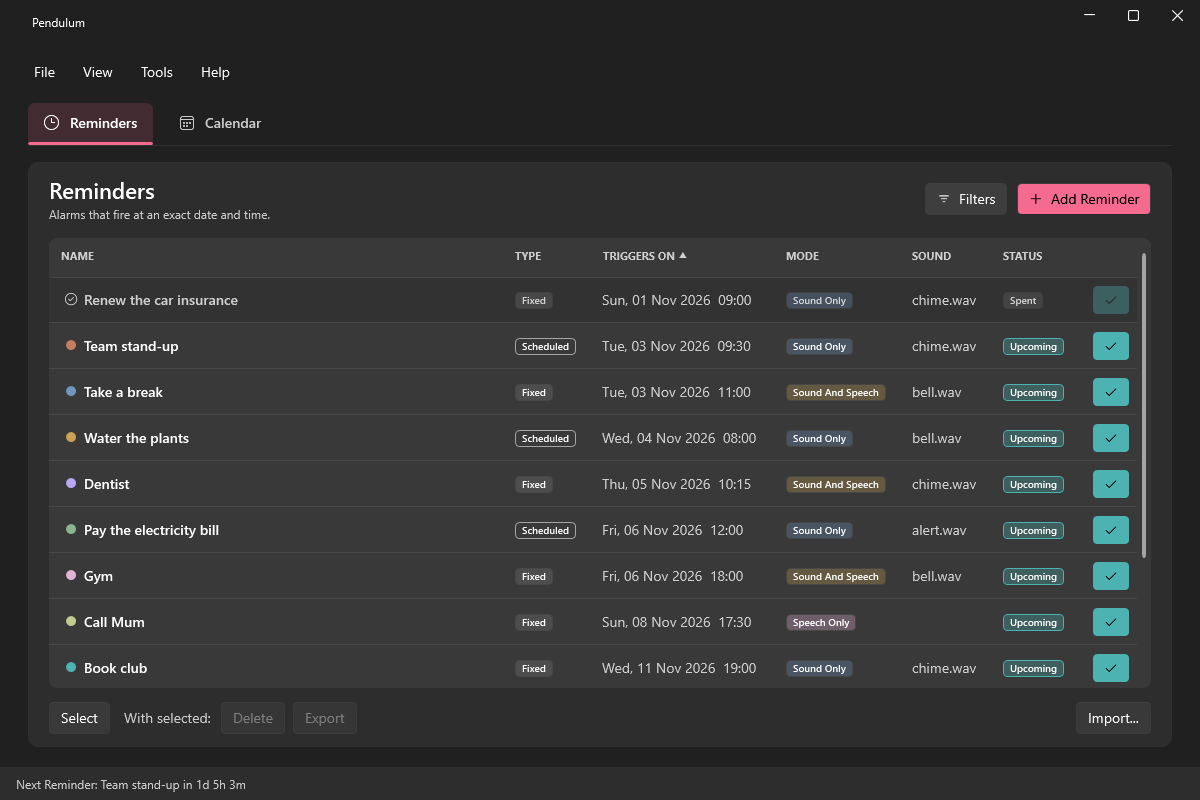
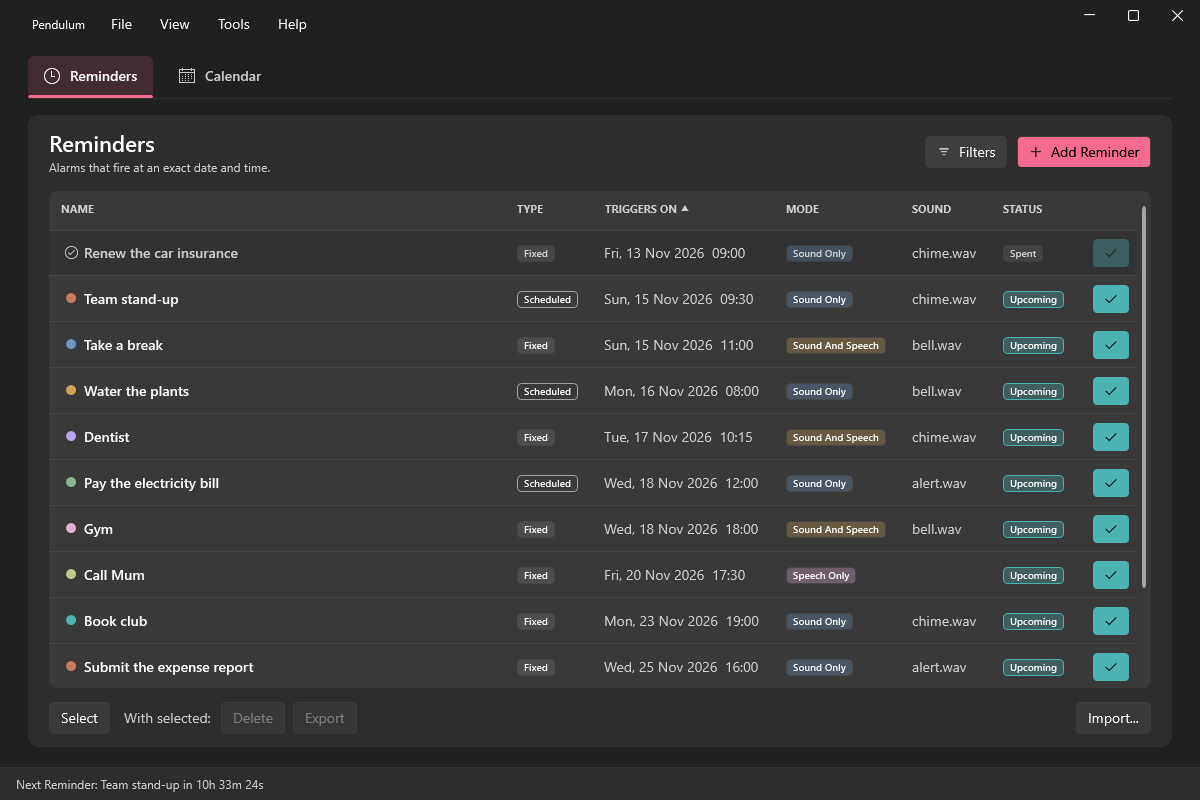
Move the menu bar into the title bar
The main window's header stacked three rows: the title bar with the
app's name, the File/View/Tools/Help menu row, then the Reminders and
Calendar tabs. The menu now sits in the title bar beside "Pendulum",
so the header is two rows.

The menu and the name are the TitleBar's Header (a Header takes the
Title's place, so the name is drawn there as the Title would be),
kept to their own width so the rest of the bar stays caption. WPF-UI
leaves a Header's bounds to its content, so the window answers the hit
test for the name itself with caption: dragging, double-click to
maximise and the system menu work on it as on the rest of the bar.
The window's own title is unchanged, and the menu keeps its access
keys and shortcuts. The README's main window pictures are rendered
again.

diff --git a/Pendulum.App/MainWindow.xaml b/Pendulum.App/MainWindow.xaml
@@ -89,54 +89,65 @@
     <Grid>
         <Grid.RowDefinitions>
             <RowDefinition Height="Auto"/>
-            <RowDefinition Height="Auto"/>
             <RowDefinition Height="*"/>
             <RowDefinition Height="Auto"/>
         </Grid.RowDefinitions>
 
         <!-- Windows' own controls: minimise, maximise/restore (with Windows 11's snap layouts under
-             the pointer) and close; a double-click on the title bar maximises and restores. -->
+             the pointer) and close. The rest of the bar is the caption: drag to move, double-click
+             to maximise and restore, right-click for the system menu. Its Header holds the app's
+             name and the menu bar beside it (a Header takes the Title's place, so the name is drawn
+             here, as the Title would be). The TitleBar leaves the Header's bounds to its content and
+             treats the rest as caption, so the Header keeps to its own width, left-aligned, and the
+             window makes the name caption again (MainWindow.xaml.cs, TitleHitTest). -->
         <ui:TitleBar x:Name="WindowTitleBar" Grid.Row="0" Title="{x:Static res:Strings.App_Name}"
-                     ShowMinimize="True" ShowMaximize="True" ShowClose="True" CanMaximize="True"/>
+                     ShowMinimize="True" ShowMaximize="True" ShowClose="True" CanMaximize="True">
+            <ui:TitleBar.Header>
+                <StackPanel x:Name="TitleBarHeader" Orientation="Horizontal" HorizontalAlignment="Left">
+                    <TextBlock x:Name="AppTitleText" Text="{x:Static res:Strings.App_Name}" FontSize="12"
+                               VerticalAlignment="Center" Foreground="{DynamicResource TextFillColorPrimaryBrush}"/>
+                    <!-- The menu bar: access keys from the underscores in its strings (Alt+F, Alt+V, ...); the
+                         shortcuts it shows are the main window's KeyBindings (MainWindow.xaml.cs). -->
+                    <Menu x:Name="MainMenu" Margin="12,0,0,0" Background="Transparent"
+                          HorizontalAlignment="Left" VerticalAlignment="Center">
+                        <MenuItem Header="{x:Static res:Strings.Menu_File}">
+                            <MenuItem x:Name="NewReminderMenuItem" Header="{x:Static res:Strings.Menu_NewReminder}"
+                                      InputGestureText="{x:Static res:Strings.Menu_NewReminderShortcut}" Click="NewReminder_Click">
+                                <MenuItem.Icon><ui:SymbolIcon Symbol="Add24"/></MenuItem.Icon>
+                            </MenuItem>
+                            <Separator/>
+                            <MenuItem x:Name="ImportMenuItem" Header="{x:Static res:Strings.Menu_Import}" Click="Import_Click">
+                                <MenuItem.Icon><ui:SymbolIcon Symbol="ArrowImport24"/></MenuItem.Icon>
+                            </MenuItem>
+                            <MenuItem x:Name="ExportMenuItem" Header="{x:Static res:Strings.Menu_Export}" Click="Export_Click">
+                                <MenuItem.Icon><ui:SymbolIcon Symbol="ArrowExportUp24"/></MenuItem.Icon>
+                            </MenuItem>
+                            <Separator/>
+                            <MenuItem x:Name="ExitMenuItem" Header="{x:Static res:Strings.Menu_Exit}" Click="Exit_Click"/>
+                        </MenuItem>
+                        <MenuItem Header="{x:Static res:Strings.Menu_View}">
+                            <MenuItem x:Name="ViewRemindersMenuItem" Header="{x:Static res:Strings.Menu_Reminders}" Click="ViewReminders_Click"/>
+                            <MenuItem x:Name="ViewCalendarMenuItem" Header="{x:Static res:Strings.Menu_Calendar}" Click="ViewCalendar_Click"/>
+                        </MenuItem>
+                        <MenuItem Header="{x:Static res:Strings.Menu_Tools}">
+                            <MenuItem x:Name="SettingsMenuItem" Header="{x:Static res:Strings.Menu_Settings}"
+                                      InputGestureText="{x:Static res:Strings.Menu_SettingsShortcut}" Click="Settings_Click">
+                                <MenuItem.Icon><ui:SymbolIcon Symbol="Settings24"/></MenuItem.Icon>
+                            </MenuItem>
+                        </MenuItem>
+                        <MenuItem Header="{x:Static res:Strings.Menu_Help}">
+                            <MenuItem x:Name="CheckForUpdatesMenuItem" Header="{x:Static res:Strings.Menu_CheckForUpdates}" Click="CheckForUpdates_Click"/>
+                            <Separator/>
+                            <MenuItem x:Name="AboutMenuItem" Header="{x:Static res:Strings.Menu_About}" Click="About_Click">
+                                <MenuItem.Icon><ui:SymbolIcon Symbol="Info24"/></MenuItem.Icon>
+                            </MenuItem>
+                        </MenuItem>
+                    </Menu>
+                </StackPanel>
+            </ui:TitleBar.Header>
+        </ui:TitleBar>
 
-        <!-- The menu bar: access keys from the underscores in its strings (Alt+F, Alt+V, ...); the
-             shortcuts it shows are the main window's KeyBindings (MainWindow.xaml.cs). -->
-        <Menu x:Name="MainMenu" Grid.Row="1" Margin="20,0,20,0" Background="Transparent">
-            <MenuItem Header="{x:Static res:Strings.Menu_File}">
-                <MenuItem x:Name="NewReminderMenuItem" Header="{x:Static res:Strings.Menu_NewReminder}"
-                          InputGestureText="{x:Static res:Strings.Menu_NewReminderShortcut}" Click="NewReminder_Click">
-                    <MenuItem.Icon><ui:SymbolIcon Symbol="Add24"/></MenuItem.Icon>
-                </MenuItem>
-                <Separator/>
-                <MenuItem x:Name="ImportMenuItem" Header="{x:Static res:Strings.Menu_Import}" Click="Import_Click">
-                    <MenuItem.Icon><ui:SymbolIcon Symbol="ArrowImport24"/></MenuItem.Icon>
-                </MenuItem>
-                <MenuItem x:Name="ExportMenuItem" Header="{x:Static res:Strings.Menu_Export}" Click="Export_Click">
-                    <MenuItem.Icon><ui:SymbolIcon Symbol="ArrowExportUp24"/></MenuItem.Icon>
-                </MenuItem>
-                <Separator/>
-                <MenuItem x:Name="ExitMenuItem" Header="{x:Static res:Strings.Menu_Exit}" Click="Exit_Click"/>
-            </MenuItem>
-            <MenuItem Header="{x:Static res:Strings.Menu_View}">
-                <MenuItem x:Name="ViewRemindersMenuItem" Header="{x:Static res:Strings.Menu_Reminders}" Click="ViewReminders_Click"/>
-                <MenuItem x:Name="ViewCalendarMenuItem" Header="{x:Static res:Strings.Menu_Calendar}" Click="ViewCalendar_Click"/>
-            </MenuItem>
-            <MenuItem Header="{x:Static res:Strings.Menu_Tools}">
-                <MenuItem x:Name="SettingsMenuItem" Header="{x:Static res:Strings.Menu_Settings}"
-                          InputGestureText="{x:Static res:Strings.Menu_SettingsShortcut}" Click="Settings_Click">
-                    <MenuItem.Icon><ui:SymbolIcon Symbol="Settings24"/></MenuItem.Icon>
-                </MenuItem>
-            </MenuItem>
-            <MenuItem Header="{x:Static res:Strings.Menu_Help}">
-                <MenuItem x:Name="CheckForUpdatesMenuItem" Header="{x:Static res:Strings.Menu_CheckForUpdates}" Click="CheckForUpdates_Click"/>
-                <Separator/>
-                <MenuItem x:Name="AboutMenuItem" Header="{x:Static res:Strings.Menu_About}" Click="About_Click">
-                    <MenuItem.Icon><ui:SymbolIcon Symbol="Info24"/></MenuItem.Icon>
-                </MenuItem>
-            </MenuItem>
-        </Menu>
-
-        <TabControl x:Name="MainTabControl" Grid.Row="2" Margin="28,8,28,20" Style="{StaticResource PendulumTabControl}">
+        <TabControl x:Name="MainTabControl" Grid.Row="1" Margin="28,8,28,20" Style="{StaticResource PendulumTabControl}">
             <TabItem x:Name="FixedTriggersTab" Header="{x:Static res:Strings.Main_Reminders}" Tag="&#xE823;" Style="{StaticResource PendulumTabItem}">
                 <views:TriggersPanel x:Name="TriggersPanelControl"/>
             </TabItem>
@@ -145,7 +156,7 @@
             </TabItem>
         </TabControl>
 
-        <Border Grid.Row="3" Background="{DynamicResource ControlFillColorDefaultBrush}"
+        <Border Grid.Row="2" Background="{DynamicResource ControlFillColorDefaultBrush}"
                 BorderBrush="{DynamicResource ControlStrokeColorDefaultBrush}" BorderThickness="0,1,0,0"
                 Padding="16,8">
             <Grid>

diff --git a/Pendulum.App.Tests/MainMenuTests.cs b/Pendulum.App.Tests/MainMenuTests.cs
@@ -93,6 +93,48 @@ public sealed class MainMenuTests : IDisposable
     }
 
     [Fact]
+    public void The_menu_bar_sits_in_the_title_bar_beside_the_name_with_the_tabs_on_the_row_below()
+    {
+        WithWindow(w =>
+        {
+            // In the title bar's Header, after the app's name; the window's own title, the one the
+            // taskbar and screen readers give, is still the app's name.
+            Assert.Same(w.TitleBarHeader, w.WindowTitleBar.Header);
+            Assert.Equal([w.AppTitleText, w.MainMenu], w.TitleBarHeader.Children.Cast<UIElement>());
+            Assert.Equal(Strings.App_Name, w.AppTitleText.Text);
+            Assert.Equal(Strings.App_Name, w.Title);
+
+            // Laid out in memory (never shown): the header keeps to its own width, so the rest of
+            // the bar stays caption to drag the window by, and the tabs come straight after the bar.
+            var content = (FrameworkElement)w.Content;
+            w.Content = null;
+            var host = new Border { Child = content, Width = 1100, Height = 720 };
+            host.Resources.MergedDictionaries.Add(w.Resources);
+            for (var pass = 0; pass < 3; pass++)
+            {
+                host.Measure(new Size(host.Width, host.Height));
+                host.Arrange(new Rect(0, 0, host.Width, host.Height));
+                host.UpdateLayout();
+            }
+
+            Assert.Equal(HorizontalAlignment.Left, w.TitleBarHeader.HorizontalAlignment);
+            Assert.InRange(w.TitleBarHeader.ActualWidth, 1, 500);
+            Assert.Equal(Grid.GetRow(w.WindowTitleBar) + 1, Grid.GetRow(w.MainTabControl));
+            var titleBottom = w.WindowTitleBar.TranslatePoint(new Point(0, w.WindowTitleBar.ActualHeight), host).Y;
+            var tabsTop = w.MainTabControl.TranslatePoint(new Point(0, 0), host).Y;
+            Assert.InRange(tabsTop - titleBottom, 0, 16);
+            // The menu's top-level items fit inside the bar.
+            Assert.InRange(w.MainMenu.ActualHeight, 1, w.WindowTitleBar.ActualHeight);
+
+            // The name is caption: a point on it is within it, one past its edge isn't.
+            var size = w.AppTitleText.RenderSize;
+            Assert.True(MainWindow.IsWithin(new Point(1, 1), size));
+            Assert.False(MainWindow.IsWithin(new Point(size.Width, 1), size));
+            Assert.False(MainWindow.IsWithin(new Point(-1, 1), size));
+        });
+    }
+
+    [Fact]
     public void View_switches_between_the_two_tabs_and_Settings_and_About_are_no_longer_on_the_window()
     {
         WithWindow(w =>

diff --git a/Pendulum.App/MainWindow.xaml.cs b/Pendulum.App/MainWindow.xaml.cs
@@ -2,6 +2,7 @@ using System.ComponentModel;
 using System.Diagnostics;
 using System.Windows;
 using System.Windows.Input;
+using System.Windows.Interop;
 using System.Windows.Media;
 using System.Windows.Threading;
 using CommunityToolkit.Mvvm.Input;
@@ -34,6 +35,39 @@ public partial class MainWindow : FluentWindow
         InputBindings.Add(new KeyBinding(new RelayCommand(NewReminder), Key.N, ModifierKeys.Control));
         InputBindings.Add(new KeyBinding(new RelayCommand(OpenSettings), Key.OemComma, ModifierKeys.Control));
     }
+
+    // ---- The title bar ----
+
+    /// The title bar holds the menu as its Header, beside the app's name. WPF-UI's TitleBar answers
+    /// Windows' hit test with "caption" everywhere on it but its buttons and its Header, so the name,
+    /// being in the Header, is made caption here: dragging it moves the window, a double-click
+    /// maximises and restores, and a right-click shows the system menu, as on the rest of the bar.
+    protected override void OnSourceInitialized(EventArgs e)
+    {
+        base.OnSourceInitialized(e);
+        HwndSource.FromHwnd(new WindowInteropHelper(this).Handle)?.AddHook(TitleHitTest);
+    }
+
+    private IntPtr TitleHitTest(IntPtr hwnd, int msg, IntPtr wParam, IntPtr lParam, ref bool handled)
+    {
+        if (msg != Win32Interop.WM_NCHITTEST || handled || !AppTitleText.IsVisible
+            || PresentationSource.FromVisual(AppTitleText) is null)
+            return IntPtr.Zero;
+
+        // The pointer's screen position, in physical pixels: signed, for screens left of or above
+        // the primary one.
+        var packed = lParam.ToInt64();
+        var screen = new Point((short)(packed & 0xFFFF), (short)((packed >> 16) & 0xFFFF));
+        if (!IsWithin(AppTitleText.PointFromScreen(screen), AppTitleText.RenderSize))
+            return IntPtr.Zero;
+
+        handled = true;
+        return Win32Interop.HTCAPTION;
+    }
+
+    /// Whether a point in an element's own coordinates falls on it.
+    internal static bool IsWithin(Point point, Size size) =>
+        point.X >= 0 && point.Y >= 0 && point.X < size.Width && point.Y < size.Height;
 
     // ---- The menu bar ----
 

diff --git a/Pendulum.App/Services/Win32Interop.cs b/Pendulum.App/Services/Win32Interop.cs
@@ -14,6 +14,8 @@ internal static class Win32Interop
     private const long WS_EX_NOACTIVATE = 0x08000000;
 
     public const int WM_HOTKEY = 0x0312;
+    public const int WM_NCHITTEST = 0x0084;
+    public const int HTCAPTION = 2;
 
     [Flags]
     public enum HotkeyModifiers : uint

diff --git a/CHANGELOG.md b/CHANGELOG.md
@@ -11,6 +11,11 @@ and this project follows [Semantic Versioning](https://semver.org/).
 - Right-click a day in the calendar and choose **Add reminder** to add one on that day: the
   editor opens with the day's date and 00:00:00, ready to change.
 
+### Changed
+- The main window's header is shorter: the File, View, Tools and Help menus sit in the title bar
+  beside "Pendulum", leaving the Reminders and Calendar tabs on the row below. The title bar still
+  moves, snaps and maximises the window as before, and Alt, F10 and the menus' shortcuts still work.
+
 ## [1.2.1] - 2026-11-14
 
 Pendulum stays responsive while other apps are busy, with fixes to saving, alerts, the calendar
